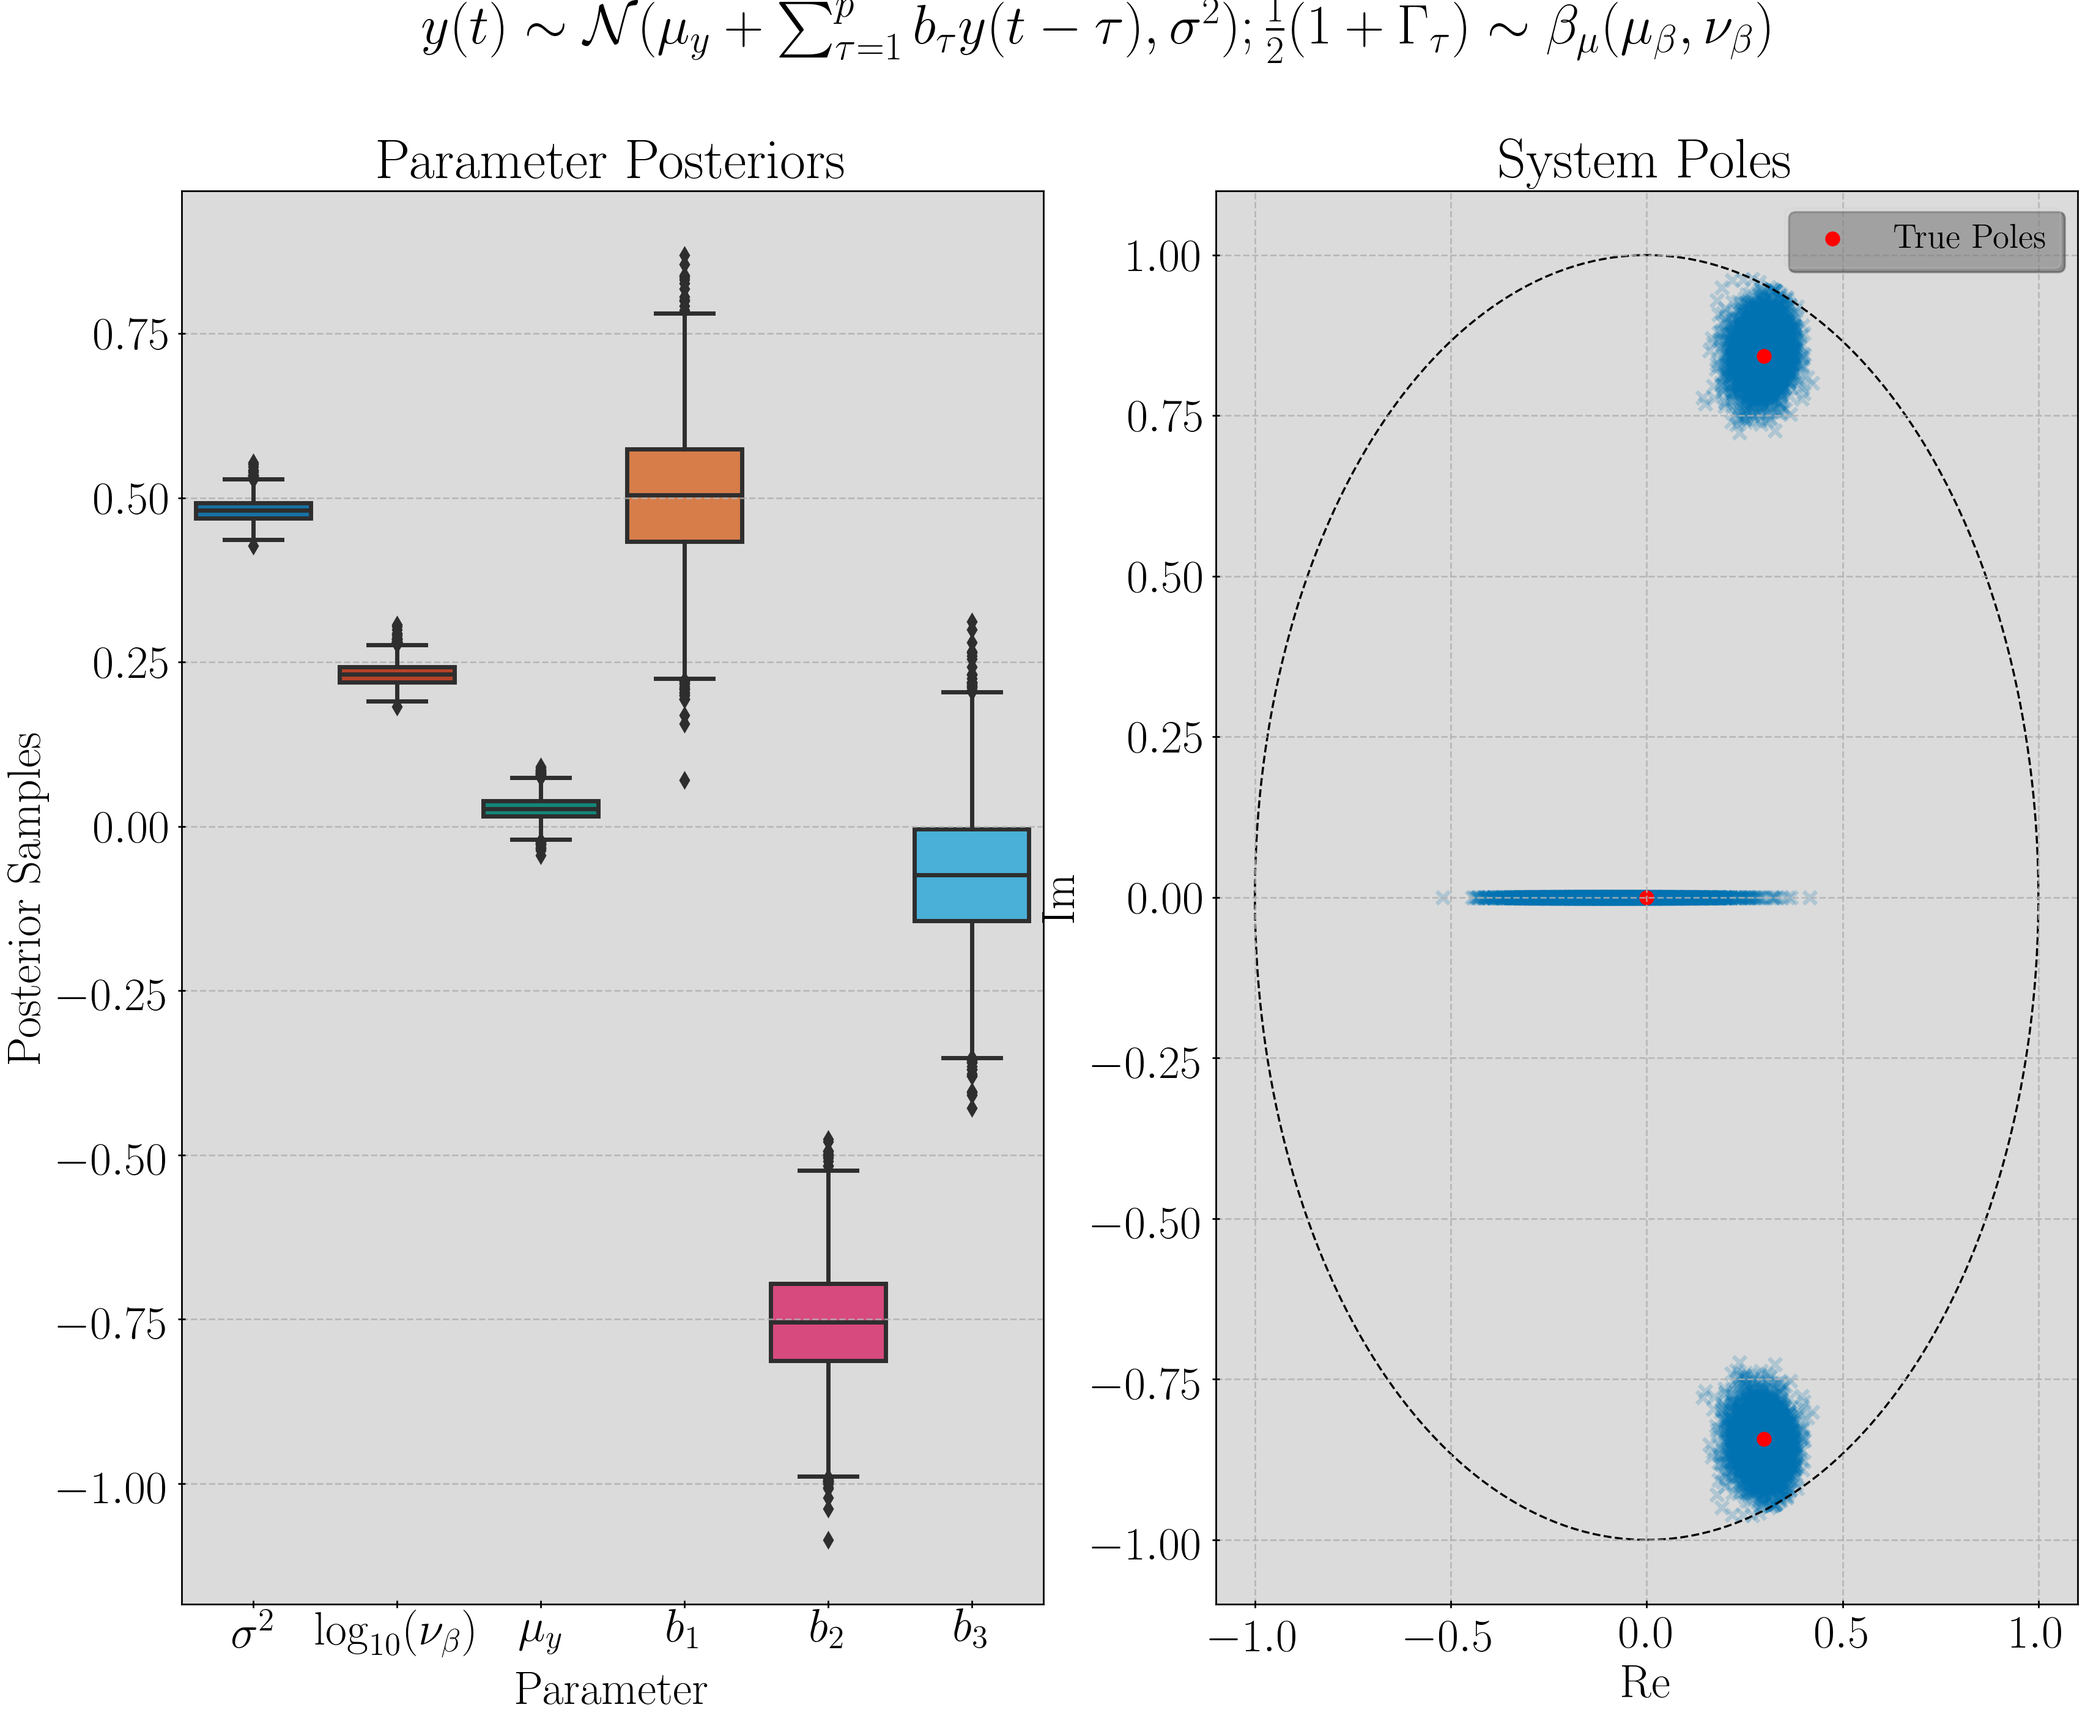
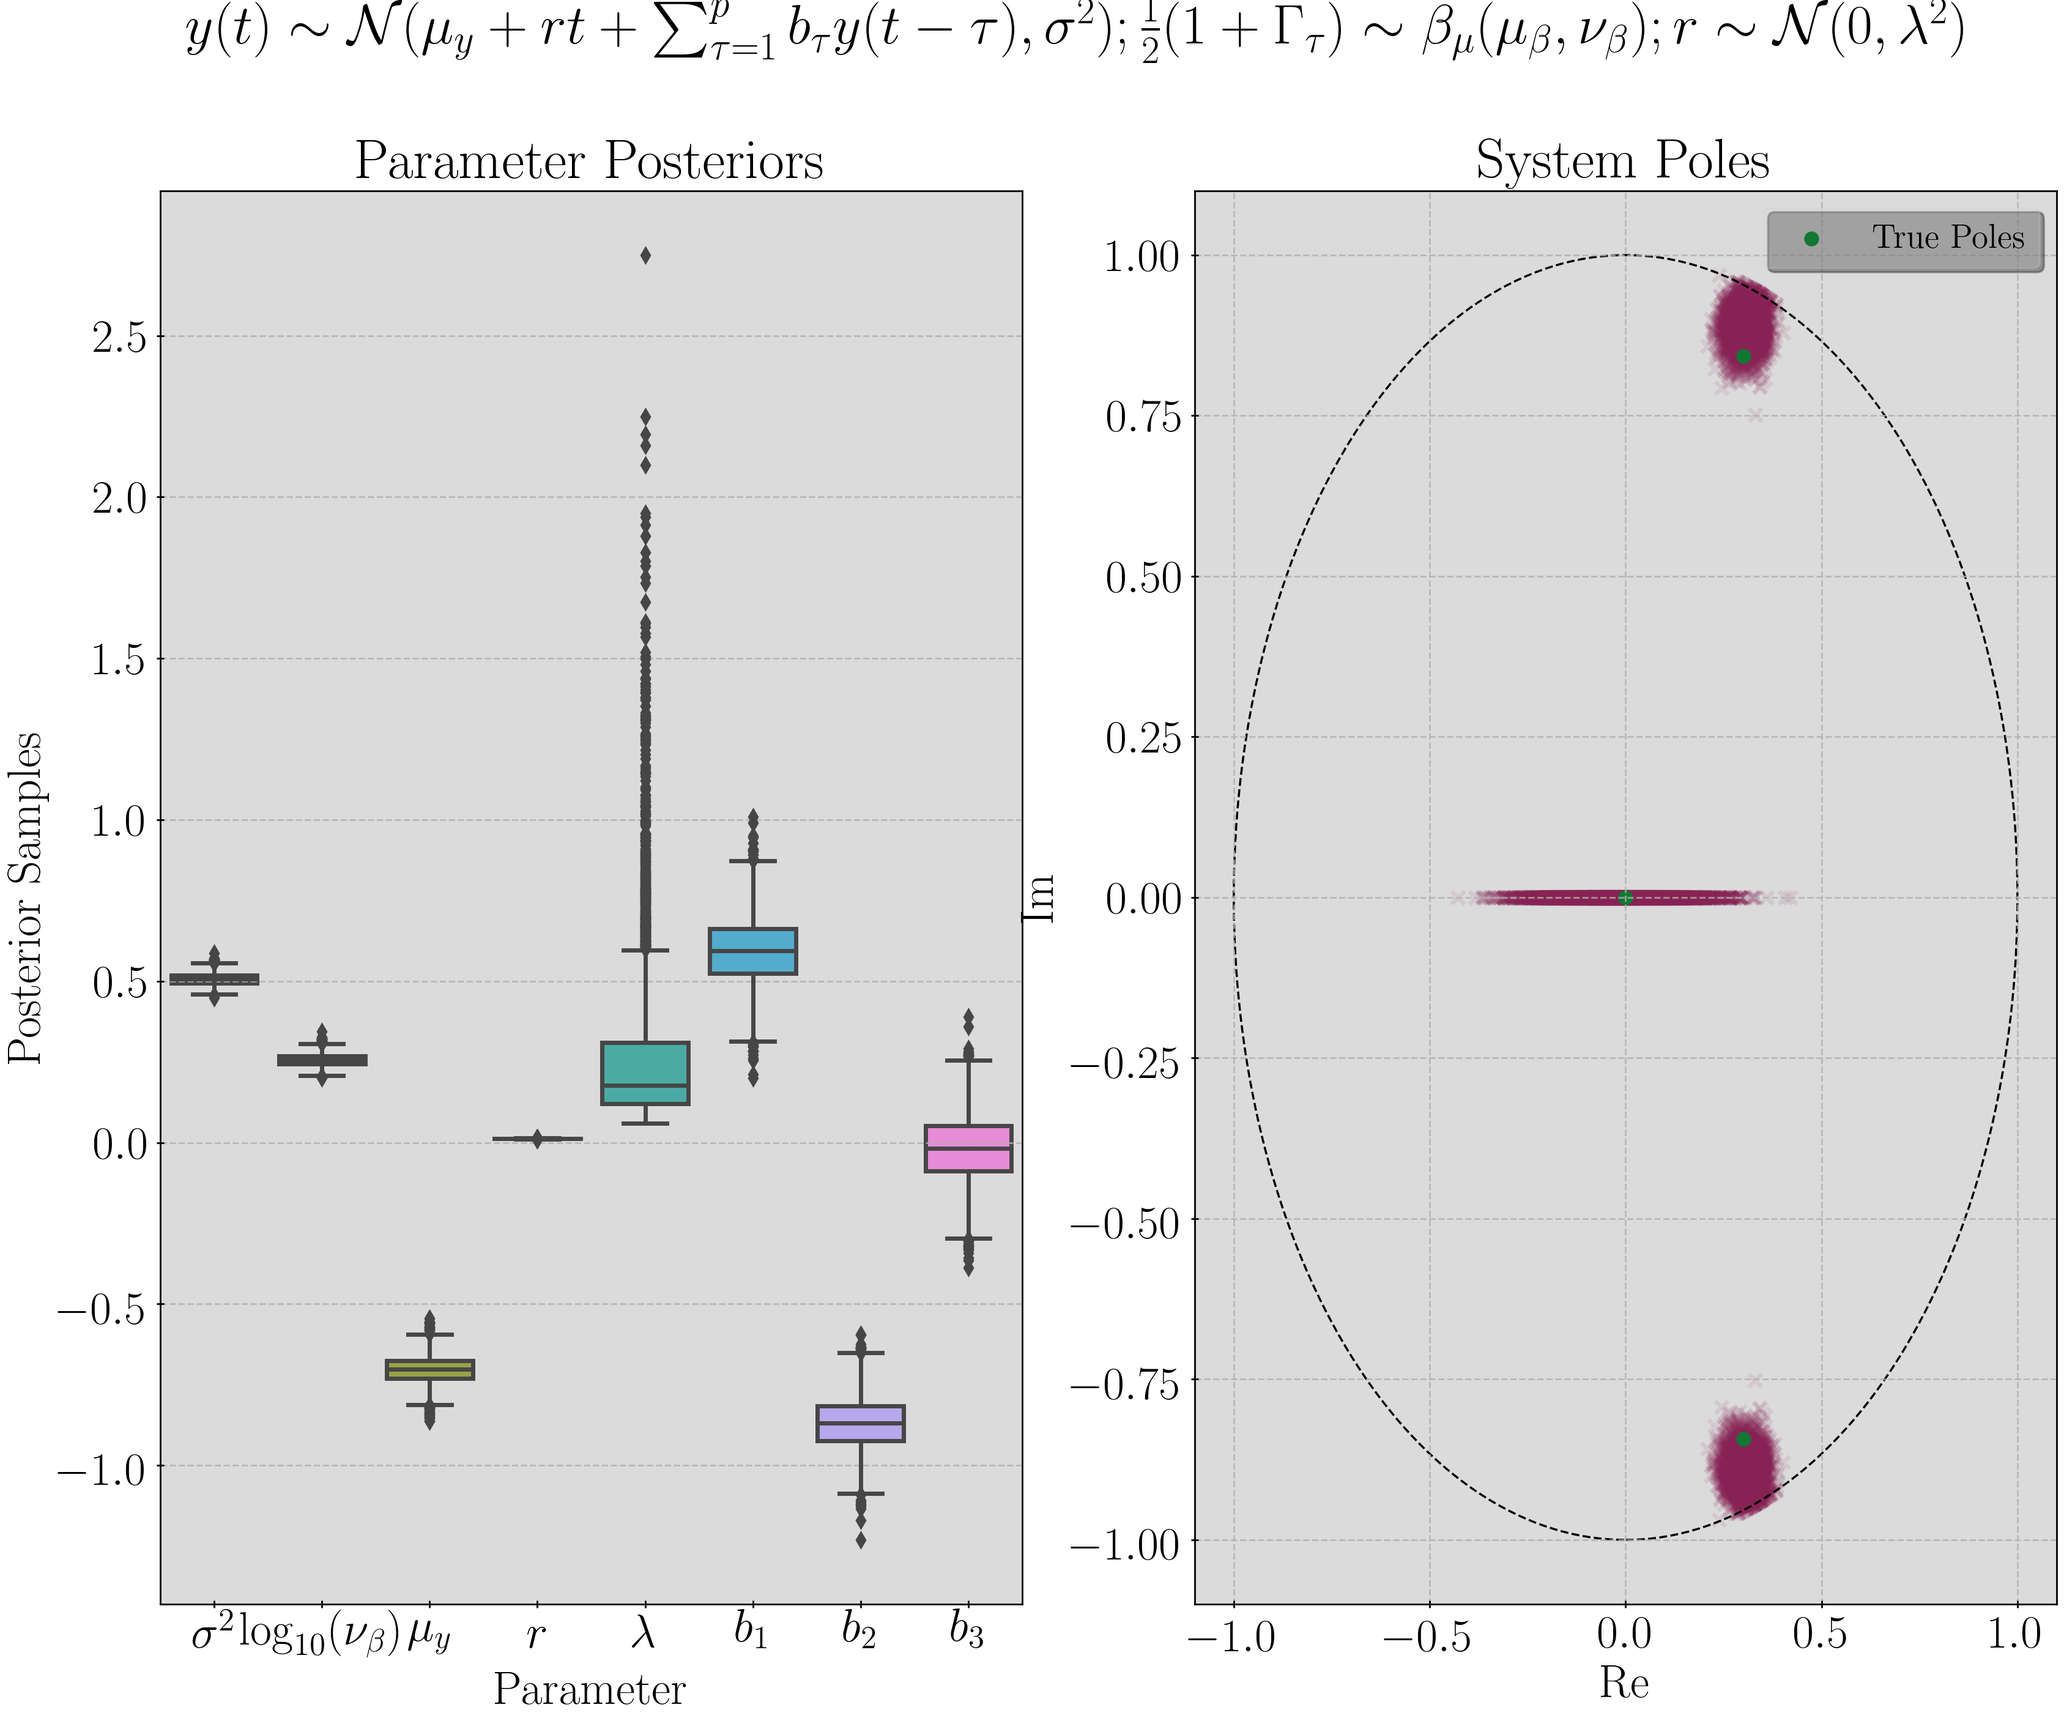
Change the colourscheme.

diff --git a/stanlearn/time_series/ar.py b/stanlearn/time_series/ar.py
@@ -103,11 +103,14 @@ class BayesAR(BaseEstimator, RegressorMixin, StanCacheMixin):
         param_df = self._fit_results.to_dataframe()
         p = self.p
 
-        params = (["sigma", "nu_beta", "mu"] +
-                  [f"b[{tau}]"for tau in range(1, p + 1)])
+        b_params = [f"b[{tau}]"for tau in range(1, p + 1)]
+        b_params_tex = [f"$b_{tau}$"for tau in range(1, p + 1)]
+
+        roots = self._compute_roots(param_df.loc[:, b_params].to_numpy())
+
+        params = (["sigma", "nu_beta", "mu", "r", "lam"] + b_params)
         names = (["$\\sigma^2$", "$\\mathrm{log}_{10}(\\nu_\\beta)$",
-                  "$\\mu_y$"] +
-                 [f"$b_{tau}$" for tau in range(1, p + 1)])
+                  "$\\mu_y$", "$r$", "$\\lambda$"] + b_params_tex)
         rename = {frm: to for frm, to in zip(params, names)}
 
         param_df.loc[:, "nu_beta"] = np.log10(param_df.loc[:, "nu_beta"])
@@ -119,10 +122,11 @@ class BayesAR(BaseEstimator, RegressorMixin, StanCacheMixin):
         ax = axes.ravel()
 
         # Plot parameters
-        fig.suptitle("$y(t) \\sim \\mathcal{N}(\\mu_y + \\sum_{\\tau = 1}^p "
-                     "b_\\tau y(t - \\tau), \\sigma^2); "
-                     "\\frac{1}{2}(1 + \Gamma_\\tau) \\sim "
-                     "\\beta_\\mu(\\mu_\\beta, \\nu_\\beta)$")
+        fig.suptitle("$y(t) \\sim \\mathcal{N}(\\mu_y + rt + "
+                     "\\sum_{\\tau = 1}^p b_\\tau y(t - \\tau), \\sigma^2); "
+                     "\\frac{1}{2}(1 + \\Gamma_\\tau) \\sim "
+                     "\\beta_\\mu(\\mu_\\beta, \\nu_\\beta); "
+                     "r \\sim \mathcal{N}(0, \\lambda^2)$")
 
         ax[0].set_title("Parameter Posteriors")
         sns.boxplot(
@@ -132,13 +136,11 @@ class BayesAR(BaseEstimator, RegressorMixin, StanCacheMixin):
             x="Parameter", y="Posterior Samples", ax=ax[0])
 
         # Z-plot
-        roots = self._compute_roots(param_df.iloc[:, 3:].to_numpy())
-
         uc = patches.Circle((0, 0), radius=1, fill=False,
                             color='black', linestyle='dashed')
         ax[1].add_patch(uc)
-        ax[1].scatter(roots.real, roots.imag, color="#0072B2",
-                      marker="x", alpha=0.2)
+        ax[1].scatter(roots.real, roots.imag, color="#882255",
+                      marker="x", alpha=0.1)
         ax[1].set_title("System Poles")
         ax[1].set_xlabel("Re")
         ax[1].set_ylabel("Im")

diff --git a/stanlearn/examples/time_series.py b/stanlearn/examples/time_series.py
@@ -21,24 +21,28 @@ except FileExistsError:
 
 def basic_example():
     p = 3  # Misspecify p
-    ar = BayesAR(normalize=False, p=p)
     T = 100
-    v = 0.25 * np.random.normal(size=T)
+    v = 0.25 * np.random.normal(size=T + p)
     y = np.array(v)
     b1 = 0.6
     b2 = -0.8
 
-    for t in range(2, T):
+    mu = -0.7
+    r = 1.2 / T
+
+    for t in range(T):
         y[t] = b1 * y[t - 1] + b2 * y[t - 2] + v[t]
+    y = y + mu + r * np.arange(-p, T)
 
-    y = y.reshape(-1, 1)
+    y = y[p:].reshape(-1, 1)
+
+    ar = BayesAR(normalize=False, p=p)
     ar.fit(y)
-
     y_ppc = ar.get_ppc()
 
-    plt.plot(y_ppc[::10].T, linewidth=0.5, color="m", alpha=0.25)
-    plt.plot(y.ravel(), linewidth=2.0, color="b", alpha=0.8, label="y")
-    plt.plot(np.mean(y_ppc, axis=0), linewidth=2.0, color="r",
+    plt.plot(y_ppc[::10].T, linewidth=0.5, color="#CC6677", alpha=0.25)
+    plt.plot(y.ravel(), linewidth=2.0, color="#117733", alpha=0.8, label="y")
+    plt.plot(np.mean(y_ppc, axis=0), linewidth=2.0, color="#882255",
              alpha=0.8, label="y\_ppc")
     plt.xlabel("$t$")
     plt.ylabel("$y$")
@@ -53,7 +57,7 @@ def basic_example():
 
     fig, axes = ar.plot_posterior_params(show=False)
     axes[1].scatter(true_roots.real, true_roots.imag, marker="o",
-                    label="True Poles", color="r")
+                    label="True Poles", color="#117733")
     axes[1].legend()
     fig.savefig(FIGURE_DIR + "time_series_param_posterior.png")
     fig.savefig(FIGURE_DIR + "time_series_param_posterior.pdf")
